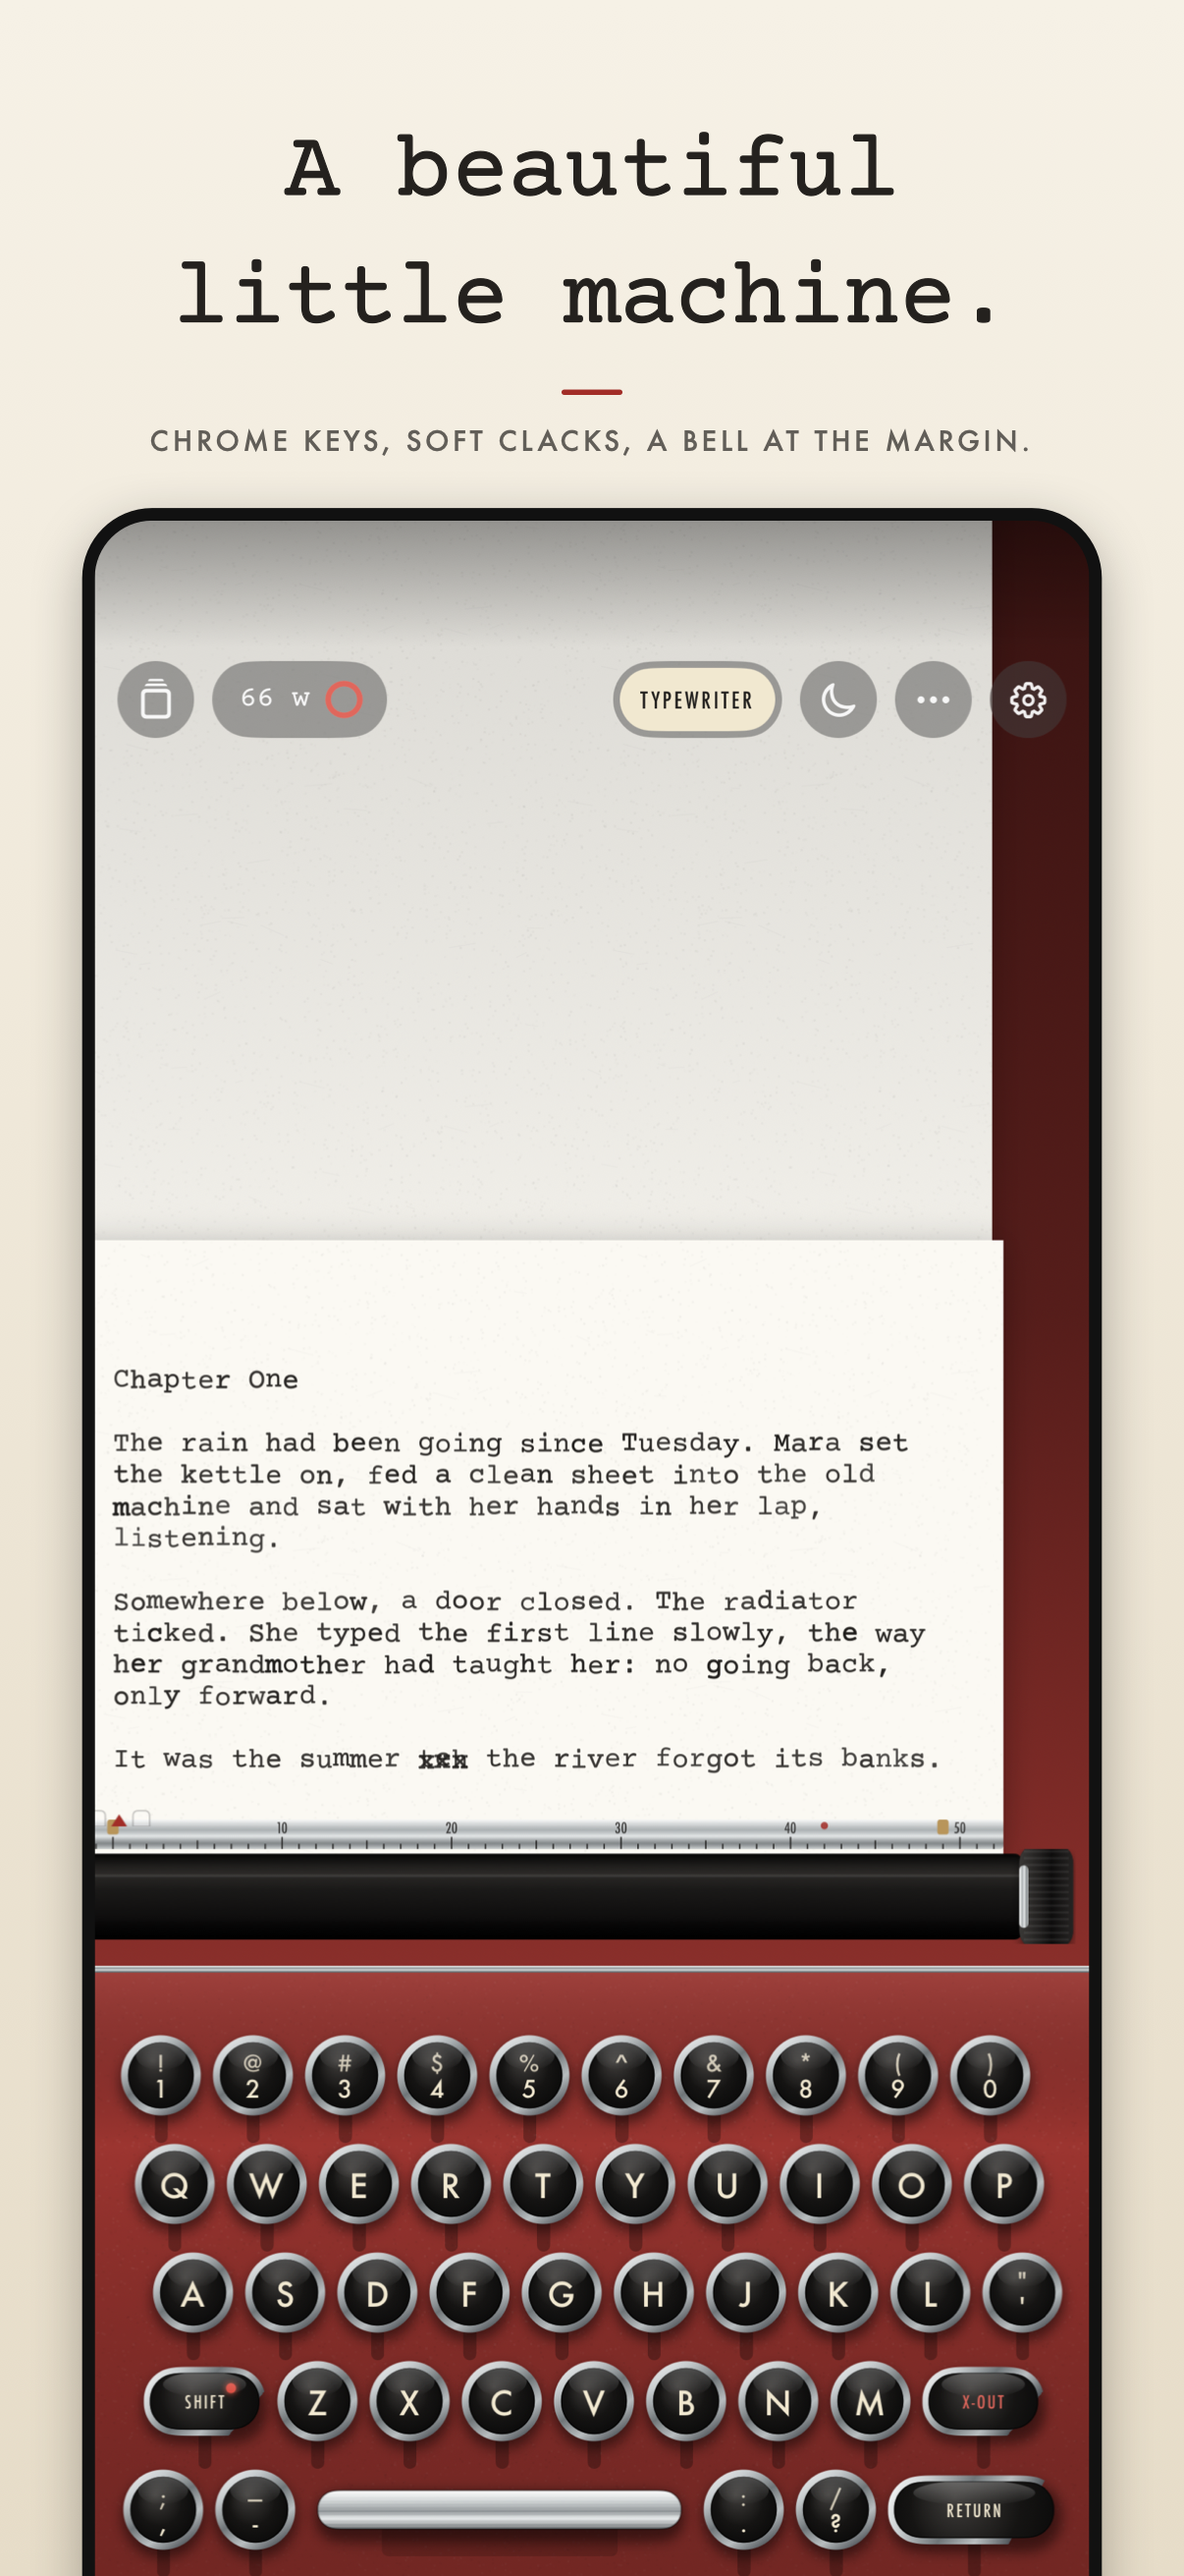
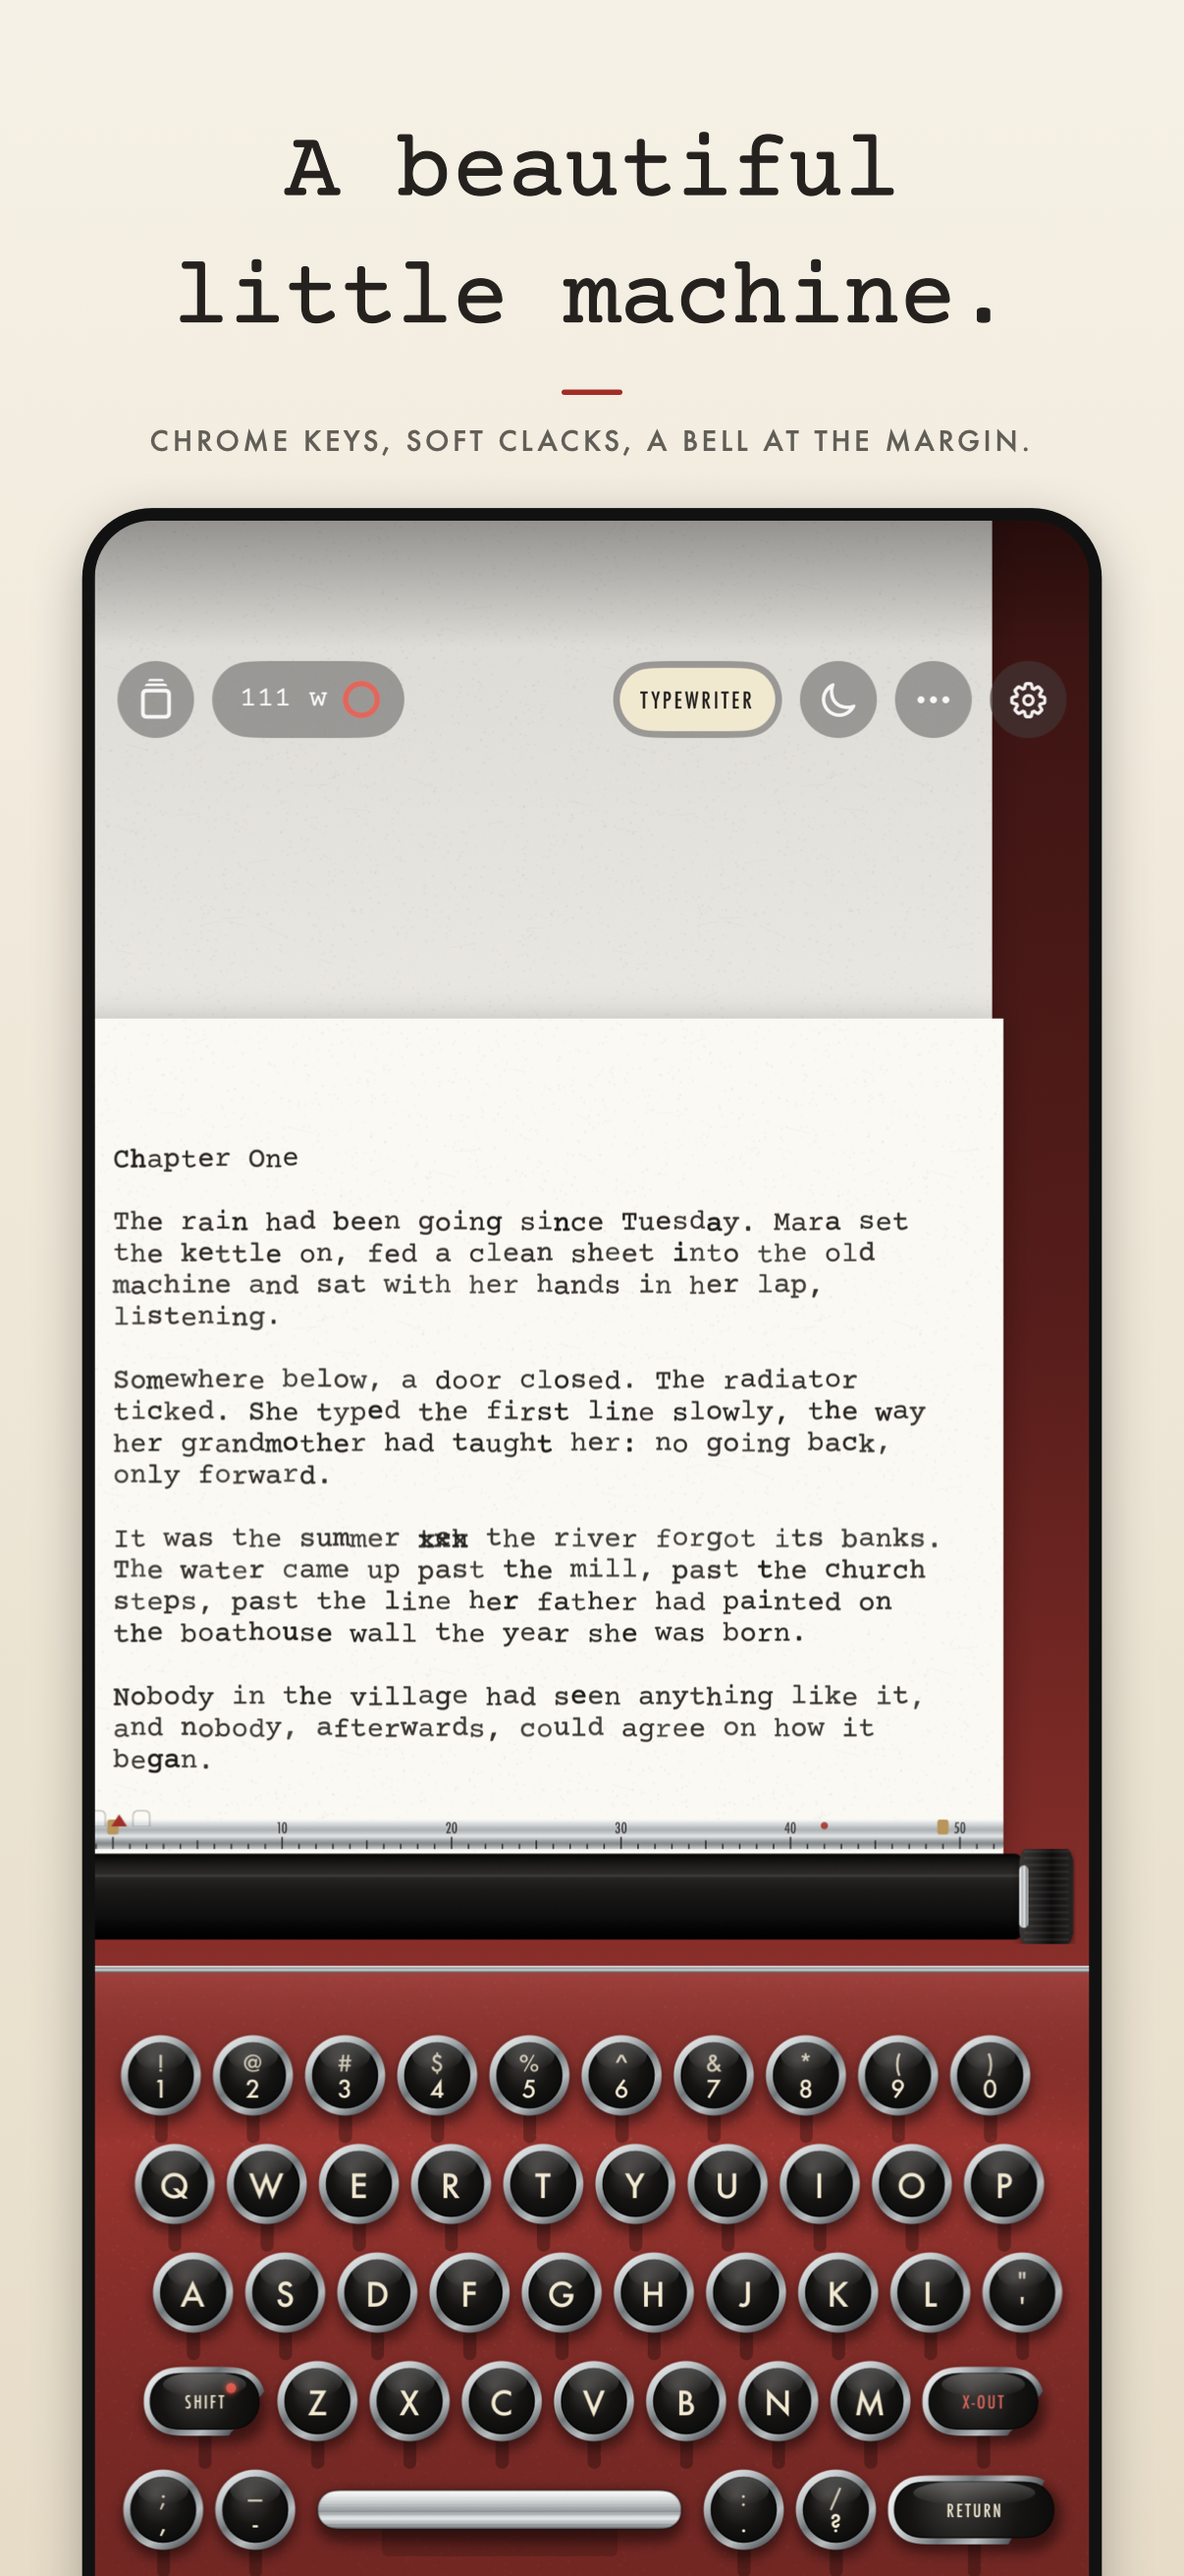
Retake the screenshots: the Duo on its side, a fuller page, focus without controls

diff --git a/scripts/StoreScreenshots.swift b/scripts/StoreScreenshots.swift
@@ -2,11 +2,13 @@
 //
 //   swift scripts/StoreScreenshots.swift   (from the repo root)
 //
-// Reads docs/screenshots/iPhone-18-Pro-Max and writes docs/screenshots/store-6.9 and store-6.3.
+// Reads docs/screenshots/iPhone-18-Pro-Max and writes store-6.9 and store-6.3; reads docs/screenshots/iPhone-Duo
+// (captured with -laptopPreview and turned upright) and writes store-duo.
 import AppKit
 import CoreText
 
 struct Shot {
+    var folder = "iPhone-18-Pro-Max"
     var source: String
     var title: String
     var line: String
@@ -21,8 +23,14 @@ let shots = [
     Shot(source: "03-library", title: "Every page,\nkept safe.", line: "NOTEBOOKS, STREAKS, ICLOUD AND FILES."),
 ]
 
+let duoShots = [
+    Shot(folder: "iPhone-Duo", source: "01-typing", title: "Half-fold it.\nStart typing.", line: "THE PAGE ON TOP, A FULL TYPEWRITER BELOW."),
+    Shot(folder: "iPhone-Duo", source: "02-focus", title: "Just you\nand the page.", line: "TAP THE MOON AND EVERYTHING ELSE FADES AWAY."),
+    Shot(folder: "iPhone-Duo", source: "03-cherry", title: "A beautiful\nlittle machine.", line: "CHROME KEYS, SOFT CLACKS, A BELL AT THE MARGIN."),
+    Shot(folder: "iPhone-Duo", source: "04-night", title: "Write late,\nin peace.", line: "NIGHT DESK: LIGHT INK ON DARK PAPER.", night: true),
+]
+
 let root = URL(fileURLWithPath: FileManager.default.currentDirectoryPath)
-let input = root.appendingPathComponent("docs/screenshots/iPhone-18-Pro-Max")
 CTFontManagerRegisterFontsForURL(root.appendingPathComponent("Carriage/Fonts/CourierPrime-Regular.ttf") as CFURL, .process, nil)
 
 func color(_ hex: UInt32, _ alpha: CGFloat = 1) -> NSColor {
@@ -30,9 +38,11 @@ func color(_ hex: UInt32, _ alpha: CGFloat = 1) -> NSColor {
 }
 
 func render(_ shot: Shot, size: CGSize, to url: URL) throws {
+    let input = root.appendingPathComponent("docs/screenshots/\(shot.folder)")
     guard let screen = NSImage(contentsOf: input.appendingPathComponent(shot.source + ".png")) else {
         throw NSError(domain: "StoreScreenshots", code: 1, userInfo: [NSLocalizedDescriptionKey: "missing \(shot.source)"])
     }
+    let duo = shot.folder == "iPhone-Duo"
     let scale = size.width / 1320
     let rep = NSBitmapImageRep(bitmapDataPlanes: nil, pixelsWide: Int(size.width), pixelsHigh: Int(size.height), bitsPerSample: 8, samplesPerPixel: 4, hasAlpha: true, isPlanar: false, colorSpaceName: .deviceRGB, bytesPerRow: 0, bitsPerPixel: 0)!
     NSGraphicsContext.saveGraphicsState()
@@ -71,7 +81,8 @@ func render(_ shot: Shot, size: CGSize, to url: URL) throws {
     line.draw(with: CGRect(x: 60 * scale, y: size.height - 520 * scale, width: size.width - 120 * scale, height: 50 * scale), options: [.usesLineFragmentOrigin])
 
     // The screen, a little smaller than life, running off the bottom edge.
-    let width = size.width * 0.84
+    // The Duo's screen is wider for its height; keep the keys on the canvas.
+    let width = size.width * (duo ? 0.70 : 0.84)
     let height = width * screen.size.height / screen.size.width
     let frame = CGRect(x: (size.width - width) / 2, y: size.height - 580 * scale - height, width: width, height: height)
     let corner = 64 * scale
@@ -87,16 +98,24 @@ func render(_ shot: Shot, size: CGSize, to url: URL) throws {
     NSGraphicsContext.saveGraphicsState()
     NSBezierPath(roundedRect: frame, xRadius: corner, yRadius: corner).addClip()
     screen.draw(in: frame)
+    if duo {
+        // The quarter-turned capture shows the home indicator as a sliver down the right edge, between the
+        // keys and the screen's edge; cover it with the plain desk just beside it.
+        let px = screen.size.width / frame.width
+        let source = CGRect(x: screen.size.width - 22, y: screen.size.height * 0.25, width: 12, height: screen.size.height * 0.5)
+        let target = CGRect(x: frame.maxX - 52 / px, y: frame.minY + frame.height * 0.25, width: 44 / px, height: frame.height * 0.5)
+        screen.draw(in: target, from: source, operation: .copy, fraction: 1)
+    }
     NSGraphicsContext.restoreGraphicsState()
 
     NSGraphicsContext.restoreGraphicsState()
     try rep.representation(using: .png, properties: [:])!.write(to: url)
 }
 
-for (folder, size) in [("store-6.9", CGSize(width: 1320, height: 2868)), ("store-6.3", CGSize(width: 1206, height: 2622))] {
+for (folder, size, set) in [("store-6.9", CGSize(width: 1320, height: 2868), shots), ("store-6.3", CGSize(width: 1206, height: 2622), shots), ("store-duo", CGSize(width: 2007, height: 2853), duoShots)] {
     let out = root.appendingPathComponent("docs/screenshots/\(folder)")
     try FileManager.default.createDirectory(at: out, withIntermediateDirectories: true)
-    for (n, shot) in shots.enumerated() {
+    for (n, shot) in set.enumerated() {
         try render(shot, size: size, to: out.appendingPathComponent(String(format: "%02d-%@.png", n + 1, String(shot.source.dropFirst(3)))))
     }
     print("wrote \(folder)")

diff --git a/Carriage/App/DemoContent.swift b/Carriage/App/DemoContent.swift
@@ -40,7 +40,7 @@ enum DemoContent {
         let story = Page(mode: .typewriter, paper: .bond, ink: .black)
         let typo = "teh "
         let lead = "Chapter One\n\nThe rain had been going since Tuesday. Mara set the kettle on, fed a clean sheet into the old machine and sat with her hands in her lap, listening.\n\nSomewhere below, a door closed. The radiator ticked. She typed the first line slowly, the way her grandmother had taught her: no going back, only forward.\n\nIt was the summer "
-        story.body = lead + typo + "the river forgot its banks.\n"
+        story.body = lead + typo + "the river forgot its banks. The water came up past the mill, past the church steps, past the line her father had painted on the boathouse wall the year she was born.\n\nNobody in the village had seen anything like it, and nobody, afterwards, could agree on how it began.\n"
         story.strikes = [NSRange(location: (lead as NSString).length, length: 3)]
         story.wordCount = TextExport.wordCount(body: story.body, strikes: story.strikes)
         story.modifiedAt = Date()

diff --git a/docs/APP_STORE.md b/docs/APP_STORE.md
@@ -94,4 +94,4 @@ Upload `docs/screenshots/store-6.3/` (App Store Connect's main iPhone slot, 1206
 4. Write late, in peace. *Night desk: light ink on dark paper.*
 5. Every page, kept safe. *Notebooks, streaks, iCloud and Files.*
 
-iPhone Duo slot (2853 x 2007, or 2007 x 2853 turned for typing): to come. Typing is top and bottom only, so the shots need the Duo turned on its side in Device Hub (Rotate Left), half-folded like a laptop.
+iPhone Duo slot: upload `docs/screenshots/store-duo/` (2007 x 2853, the Duo on its side, half-folded: page on top, keys below). The raw captures are in `iPhone-Duo/`, taken on the Duo simulator with `-seedDemo -laptopPreview` and turned upright (`sips -r 270`); `swift scripts/StoreScreenshots.swift` frames them.
